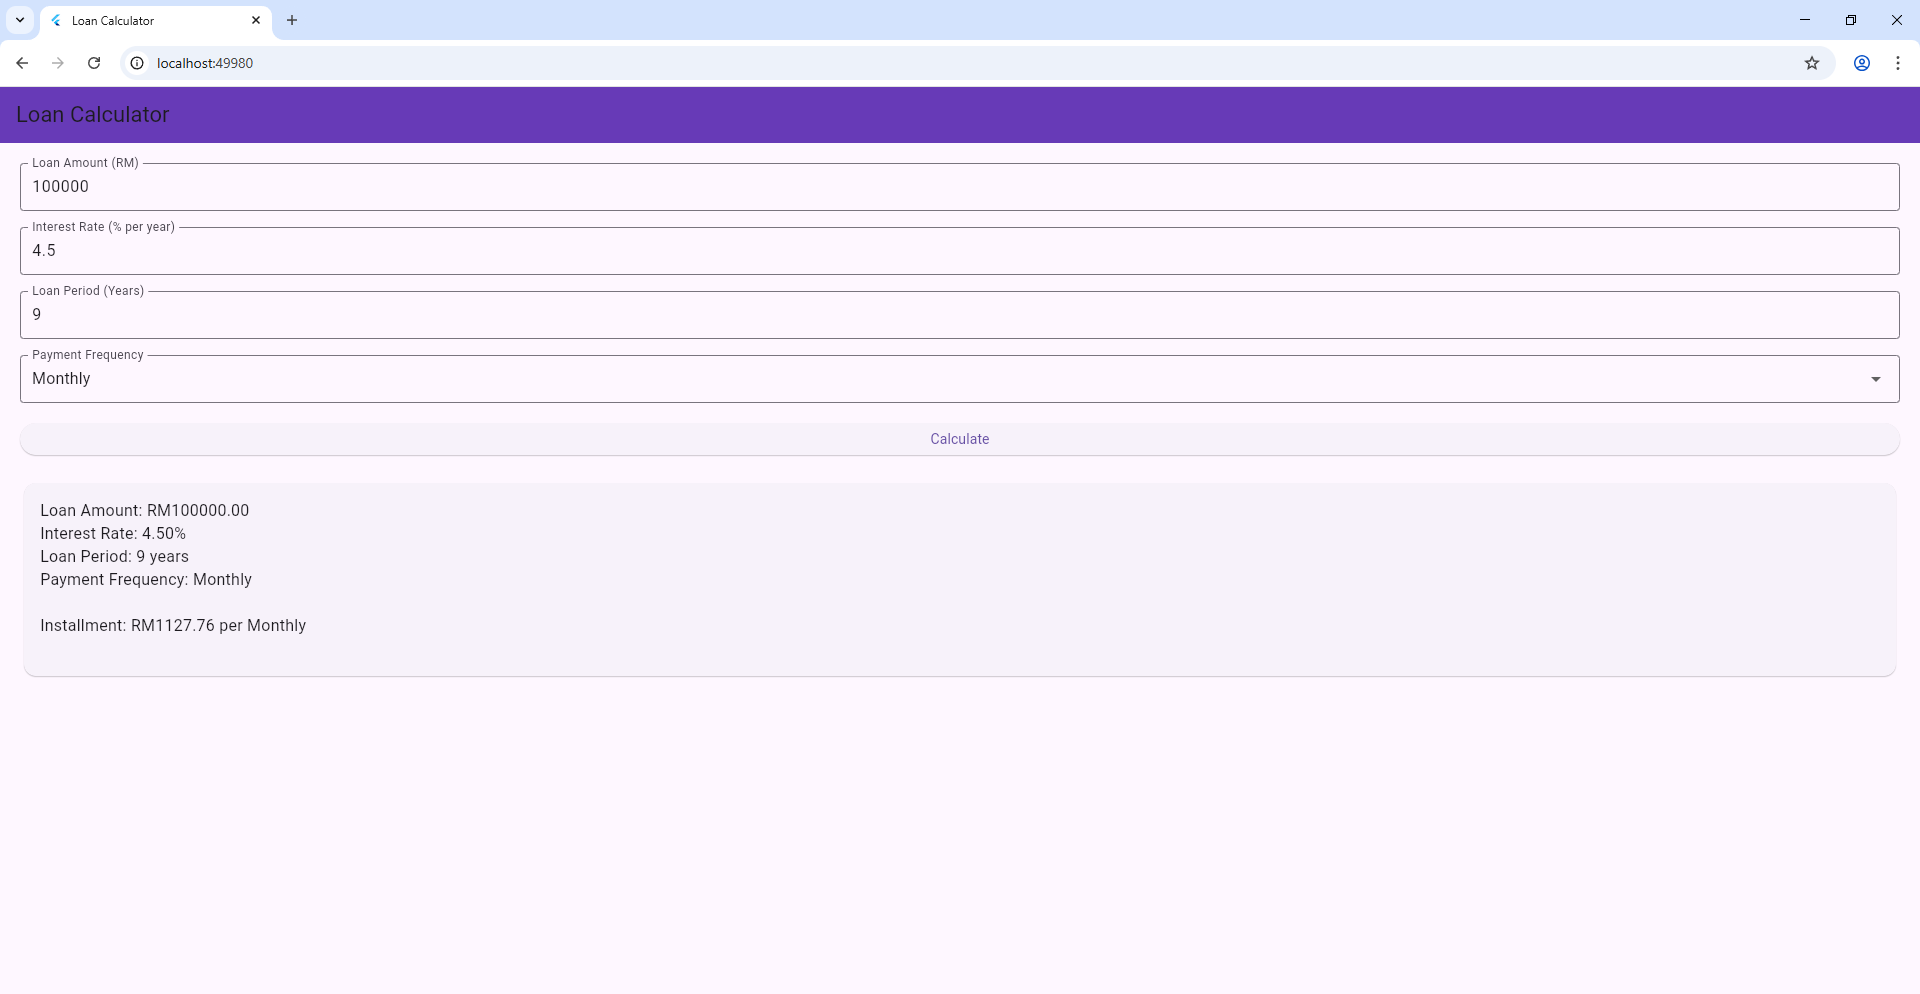
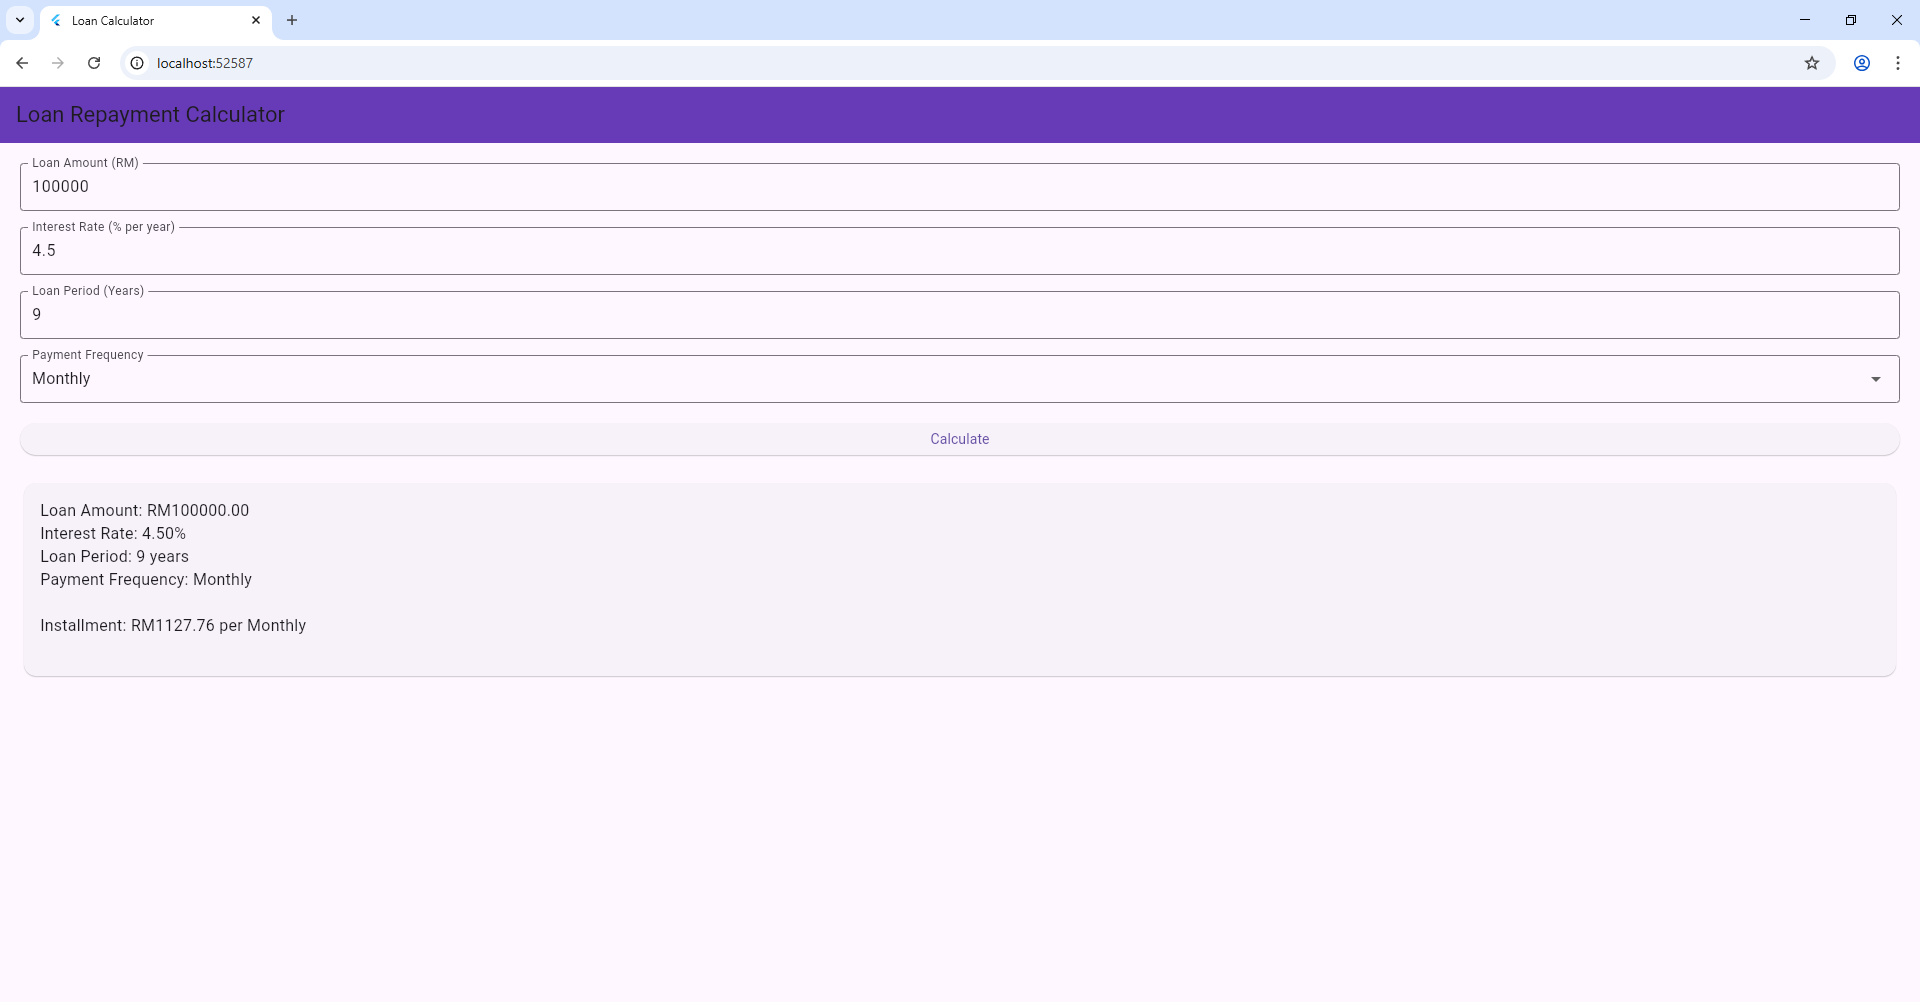
Update title to Loan Repayment Calculator

diff --git a/lib/loancalculator_screen.dart b/lib/loancalculator_screen.dart
@@ -23,7 +23,7 @@ class _LoanCalculatorScreenState extends State<LoanCalculatorScreen> {
   Widget build(BuildContext context) {
     return Scaffold(
       appBar: AppBar(
-        title: Text("Loan Calculator"),
+        title: Text("Loan Repayment Calculator"),
         backgroundColor: Colors.deepPurple,
       ),
       body: Padding(
